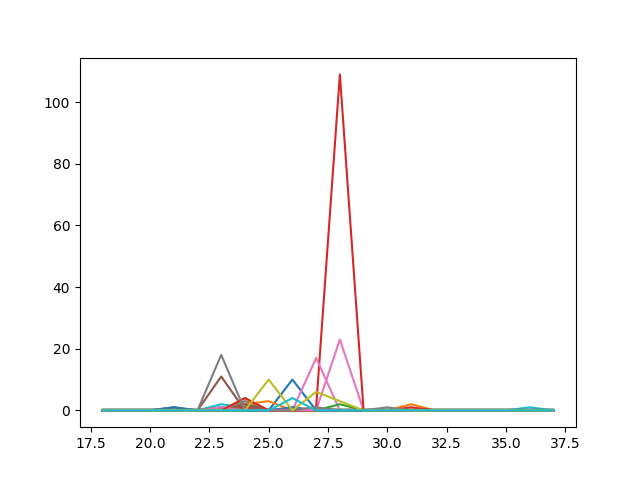
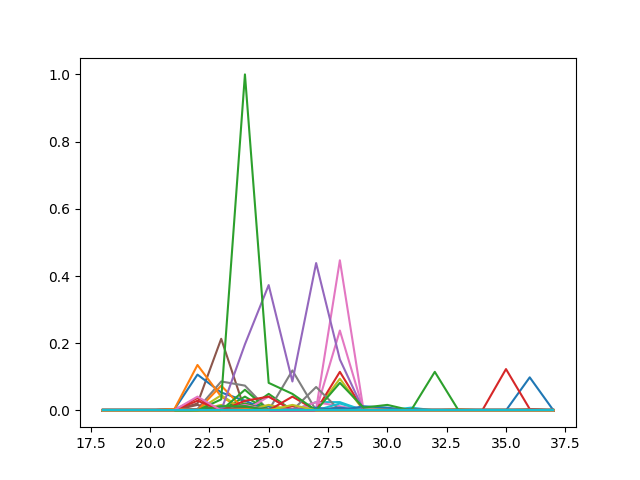
normalized data for phrase cloud and mmtoc

diff --git a/code/extract_mmtoc/mmtoc.py b/code/extract_mmtoc/mmtoc.py
@@ -21,18 +21,21 @@ def extract_week_number(raw_date):
 def create_mmtoc_dictionary(min_week, max_week):
     phrase_cloud_clicks = {}
     for i in range(min_week, max_week + 1):
-        phrase_cloud_clicks[i] = 0
+        phrase_cloud_clicks[i] = 0.0
 
     return phrase_cloud_clicks
 
 
 def extract_mmtoc_clicks():
+    print "mmtoc"
     user_log = {}
     count = 0
     for file in os.listdir(path):
         mmtoc_clicks = create_mmtoc_dictionary(18, 37)
         count += 1
         print count
+        # if count > 100:
+        #     break
         if file != ".gitginore":
             with open(path + file, 'r') as data_file:
                 for line in data_file.readlines():
@@ -43,7 +46,7 @@ def extract_mmtoc_clicks():
                         if week_number in mmtoc_clicks:
                             mmtoc_clicks[week_number] += 1
                         else:
-                            mmtoc_clicks[week_number] = 1
+                            mmtoc_clicks[week_number] = 1.0
 
                 user_log[file.split("_")[1].split(".")[0]] = mmtoc_clicks
 
@@ -53,6 +56,7 @@ def extract_mmtoc_clicks():
             if user_log[user][week] > max_click:
                 max_click = user_log[user][week]
 
+    # print "max click ", max_click
     for user in user_log:
         for week in user_log[user]:
             user_log[user][week] /= max_click

diff --git a/code/extract_phrasecloud/phrasecloud.py b/code/extract_phrasecloud/phrasecloud.py
@@ -22,18 +22,21 @@ def extract_week_number(raw_date):
 def create_phrasecloud_dictionary(min_week, max_week):
     phrase_cloud_clicks = {}
     for i in range(min_week, max_week + 1):
-        phrase_cloud_clicks[i] = 0
+        phrase_cloud_clicks[i] = 0.0
 
     return phrase_cloud_clicks
 
 
 def extract_phrasecloud_clicks():
+    print "phrase cloud"
     # main_db = []
     user_log = {}
     count = 0
     for file in os.listdir(path):
         count += 1
         print count
+        # if count > 100:
+        #     break
         if file != ".gitignore":
             phrase_cloud_clicks = create_phrasecloud_dictionary(18, 37)
             with open(path + file, 'r') as data_file:
@@ -45,7 +48,7 @@ def extract_phrasecloud_clicks():
                         if week_number in phrase_cloud_clicks:
                             phrase_cloud_clicks[week_number] += 1
                         else:
-                            phrase_cloud_clicks[week_number] = 1
+                            phrase_cloud_clicks[week_number] = 1.0
 
                 user_log[file.split("_")[1].split(".")[0]] = phrase_cloud_clicks
 
